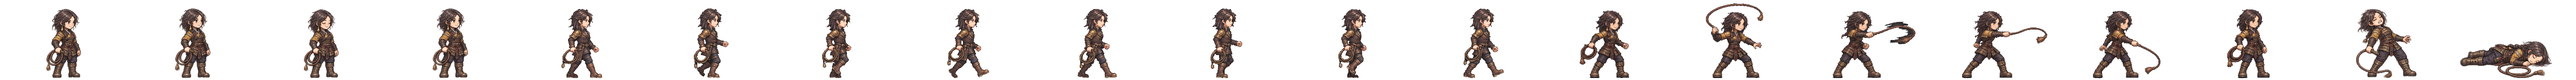
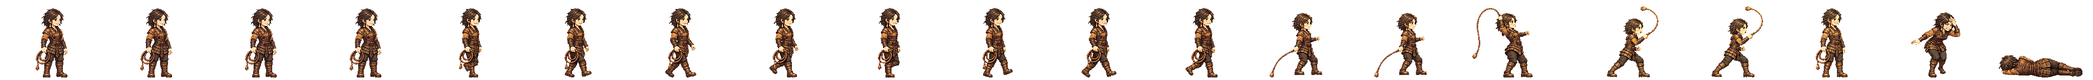
사벌 말갈기 새 채찍 띠를 게임에 넣음: 칸 38(본 20 + 쓰러짐 2 + 개성 4 + 공격 8 + 맞음 4) · 공격 칸 폭 288 · 뒷발 박힘 · 걷기는 앞 판(v1 · 교대가 약해 다시 받았으나 나아지지 않음)
Claude-Session: https://claude.ai/code/session_01TRiuN7s6aDfSnaHxrkctmU

diff --git a/src/realm/data/spritePx.ts b/src/realm/data/spritePx.ts
@@ -1,3 +1,3 @@
 /** public/realm/anim-px/manifest.json 의 사본 — tools/sprite-normalize.mjs 가 만든다 (손으로 고치지 말 것). 칸 [가로, 세로] · feet = 발 줄(칸 위에서 y) · bodyPx = 서 있는 몸 키 */
 import { expandManifest } from './sprite-manifest.ts'
-export const SPRITE_PX: Readonly<Record<string, { readonly cell: readonly [number, number]; readonly feet: number; readonly bodyPx: number; readonly kind: 'general' | 'soldier' | 'folk' | 'crowd'; readonly cells: number }>> = expandManifest<{ readonly cell: readonly [number, number]; readonly feet: number; readonly bodyPx: number; readonly kind: 'general' | 'soldier' | 'folk' | 'crowd'; readonly cells: number }>([{"cell":[166,128],"feet":126,"bodyPx":124,"kind":"soldier","cells":20},{"cell":[116,128],"feet":126,"bodyPx":117,"kind":"soldier","cells":20},{"cell":[127,128],"feet":126,"bodyPx":116,"kind":"soldier","cells":20},{"cell":[269,128],"feet":126,"bodyPx":126,"kind":"soldier","cells":20},{"cell":[503,128],"feet":126,"bodyPx":127,"kind":"soldier","cells":20},{"cell":[614,128],"feet":126,"bodyPx":126,"kind":"soldier","cells":20},{"cell":[200,160],"feet":156,"bodyPx":138,"kind":"general","cells":20},{"cell":[208,160],"feet":155,"bodyPx":138,"kind":"general","cells":20},{"cell":[208,160],"feet":154,"bodyPx":138,"kind":"general","cells":20},{"cell":[304,160],"feet":155,"bodyPx":135,"kind":"general","cells":20},{"cell":[184,160],"feet":156,"bodyPx":138,"kind":"general","cells":20},{"cell":[208,160],"feet":154,"bodyPx":136,"kind":"general","cells":20},{"cell":[232,160],"feet":156,"bodyPx":138,"kind":"general","cells":20},{"cell":[208,160],"feet":156,"bodyPx":138,"kind":"general","cells":20},{"cell":[168,160],"feet":156,"bodyPx":124,"kind":"general","cells":20},{"cell":[216,160],"feet":156,"bodyPx":130,"kind":"general","cells":20},{"cell":[200,160],"feet":156,"bodyPx":116,"kind":"general","cells":20},{"cell":[192,160],"feet":156,"bodyPx":138,"kind":"general","cells":20},{"cell":[208,160],"feet":154,"bodyPx":135,"kind":"general","cells":20},{"cell":[280,160],"feet":156,"bodyPx":138,"kind":"general","cells":20},{"cell":[232,160],"feet":156,"bodyPx":134,"kind":"general","cells":20},{"cell":[144,160],"feet":156,"bodyPx":70,"kind":"general","cells":20},{"cell":[208,160],"feet":156,"bodyPx":70,"kind":"general","cells":20},{"cell":[192,160],"feet":156,"bodyPx":70,"kind":"general","cells":20},{"cell":[240,160],"feet":155,"bodyPx":138,"kind":"general","cells":20},{"cell":[192,160],"feet":156,"bodyPx":128,"kind":"general","cells":20},{"cell":[208,160],"feet":154,"bodyPx":137,"kind":"general","cells":20},{"cell":[216,160],"feet":156,"bodyPx":138,"kind":"general","cells":20},{"cell":[208,160],"feet":156,"bodyPx":134,"kind":"general","cells":20},{"cell":[208,160],"feet":154,"bodyPx":130,"kind":"general","cells":20},{"cell":[248,160],"feet":156,"bodyPx":138,"kind":"general","cells":20},{"cell":[248,160],"feet":155,"bodyPx":138,"kind":"general","cells":20},{"cell":[192,160],"feet":155,"bodyPx":138,"kind":"general","cells":20},{"cell":[192,160],"feet":156,"bodyPx":124,"kind":"general","cells":20},{"cell":[208,160],"feet":154,"bodyPx":131,"kind":"general","cells":20},{"cell":[256,160],"feet":156,"bodyPx":138,"kind":"general","cells":20},{"cell":[240,160],"feet":156,"bodyPx":138,"kind":"general","cells":20},{"cell":[232,160],"feet":156,"bodyPx":73,"kind":"general","cells":20},{"cell":[224,160],"feet":156,"bodyPx":138,"kind":"general","cells":20},{"cell":[224,160],"feet":156,"bodyPx":128,"kind":"general","cells":20},{"cell":[176,160],"feet":156,"bodyPx":129,"kind":"general","cells":20},{"cell":[208,160],"feet":154,"bodyPx":139,"kind":"general","cells":20},{"cell":[232,160],"feet":155,"bodyPx":138,"kind":"general","cells":20},{"cell":[208,160],"feet":156,"bodyPx":132,"kind":"general","cells":20},{"cell":[184,160],"feet":156,"bodyPx":122,"kind":"general","cells":20},{"cell":[280,160],"feet":155,"bodyPx":133,"kind":"general","cells":20},{"cell":[176,160],"feet":156,"bodyPx":70,"kind":"general","cells":20},{"cell":[186,128],"feet":126,"bodyPx":127,"kind":"soldier","cells":20},{"cell":[298,128],"feet":126,"bodyPx":126,"kind":"soldier","cells":20},{"cell":[82,128],"feet":126,"bodyPx":114,"kind":"folk","cells":8},{"cell":[134,128],"feet":126,"bodyPx":119,"kind":"soldier","cells":20},{"cell":[380,128],"feet":126,"bodyPx":124,"kind":"soldier","cells":20},{"cell":[114,128],"feet":126,"bodyPx":115,"kind":"soldier","cells":20},{"cell":[122,128],"feet":126,"bodyPx":114,"kind":"soldier","cells":20},{"cell":[254,128],"feet":126,"bodyPx":128,"kind":"soldier","cells":20},{"cell":[438,128],"feet":126,"bodyPx":126,"kind":"soldier","cells":20},{"cell":[88,128],"feet":126,"bodyPx":113,"kind":"folk","cells":8},{"cell":[100,128],"feet":126,"bodyPx":115,"kind":"folk","cells":8},{"cell":[108,128],"feet":126,"bodyPx":115,"kind":"folk","cells":8},{"cell":[63,128],"feet":126,"bodyPx":113,"kind":"folk","cells":8},{"cell":[69,96],"feet":96,"bodyPx":96,"kind":"crowd","cells":1},{"cell":[54,96],"feet":96,"bodyPx":96,"kind":"crowd","cells":1},{"cell":[47,96],"feet":96,"bodyPx":96,"kind":"crowd","cells":1},{"cell":[49,96],"feet":96,"bodyPx":96,"kind":"crowd","cells":1},{"cell":[57,96],"feet":96,"bodyPx":96,"kind":"crowd","cells":1},{"cell":[55,96],"feet":96,"bodyPx":96,"kind":"crowd","cells":1},{"cell":[45,96],"feet":96,"bodyPx":96,"kind":"crowd","cells":1},{"cell":[53,96],"feet":96,"bodyPx":96,"kind":"crowd","cells":1},{"cell":[64,96],"feet":96,"bodyPx":96,"kind":"crowd","cells":1},{"cell":[264,160],"feet":156,"bodyPx":138,"kind":"general","cells":20},{"cell":[184,160],"feet":156,"bodyPx":124,"kind":"general","cells":20},{"cell":[208,160],"feet":154,"bodyPx":134,"kind":"general","cells":20},{"cell":[224,160],"feet":156,"bodyPx":133,"kind":"general","cells":20},{"cell":[184,160],"feet":156,"bodyPx":137,"kind":"general","cells":20},{"cell":[176,160],"feet":156,"bodyPx":130,"kind":"general","cells":20},{"cell":[216,160],"feet":156,"bodyPx":134,"kind":"general","cells":20},{"cell":[216,160],"feet":156,"bodyPx":132,"kind":"general","cells":20},{"cell":[288,160],"feet":156,"bodyPx":138,"kind":"general","cells":20},{"cell":[192,160],"feet":156,"bodyPx":118,"kind":"general","cells":20},{"cell":[208,160],"feet":154,"bodyPx":132,"kind":"general","cells":20},{"cell":[208,160],"feet":154,"bodyPx":128,"kind":"general","cells":20},{"cell":[240,160],"feet":156,"bodyPx":128,"kind":"general","cells":20},{"cell":[184,160],"feet":156,"bodyPx":132,"kind":"general","cells":20},{"cell":[208,160],"feet":156,"bodyPx":123,"kind":"general","cells":20},{"cell":[192,160],"feet":156,"bodyPx":135,"kind":"general","cells":20},{"cell":[176,160],"feet":156,"bodyPx":116,"kind":"general","cells":20},{"cell":[272,160],"feet":156,"bodyPx":138,"kind":"general","cells":20},{"cell":[176,160],"feet":156,"bodyPx":138,"kind":"general","cells":20},{"cell":[176,160],"feet":156,"bodyPx":122,"kind":"general","cells":20},{"cell":[232,160],"feet":156,"bodyPx":127,"kind":"general","cells":20},{"cell":[184,160],"feet":156,"bodyPx":134,"kind":"general","cells":20},{"cell":[168,160],"feet":156,"bodyPx":138,"kind":"general","cells":20},{"cell":[176,160],"feet":156,"bodyPx":137,"kind":"general","cells":20},{"cell":[184,160],"feet":156,"bodyPx":133,"kind":"general","cells":20}],[["axe",0],["bandit-chief",1],["bandit-club",2],["boat",3],["bow",4],["crossbow",5],["gen-adogan",6],["gen-alpyeong",7],["gen-ara",8],["gen-areum",8],["gen-aryeong",9],["gen-bakdal",8],["gen-baram",8],["gen-bdanbi",10],["gen-beom",11],["gen-beombal",8],["gen-beomi",8],["gen-bira",12],["gen-biryu",13],["gen-budeul",8],["gen-byeol",8],["gen-daemusin",14],["gen-daeso",15],["gen-dallae2",10],["gen-dalli",8],["gen-damul",16],["gen-danbi",8],["gen-dangung",17],["gen-darae",18],["gen-dokmudeom",8],["gen-duman",19],["gen-eomni",8],["gen-eureum",20],["gen-g-bow",21],["gen-g-spear",22],["gen-g-sword",23],["gen-gaennae",8],["gen-gamsil",24],["gen-gaon",18],["gen-geota",13],["gen-geumbawi",10],["gen-geumha",25],["gen-goeun",8],["gen-gom",8],["gen-gomok",13],["gen-gureum",8],["gen-guryema",17],["gen-gwaeyu",12],["gen-haebi",8],["gen-haedal",6],["gen-haesol",8],["gen-halla",26],["gen-heo",8],["gen-hneoul",10],["gen-hogong",27],["gen-hojin",13],["gen-horselord",28],["gen-hwalmi",29],["gen-hyeokgeose",17],["gen-hyeopbo",6],["gen-irang",8],["gen-jibaekho",30],["gen-jinha",31],["gen-jita",32],["gen-jumong",33],["gen-keundol",7],["gen-maehwa",34],["gen-maenun",17],["gen-malgalgi",35],["gen-mari",36],["gen-maro",30],["gen-maryeo",13],["gen-mdallae",8],["gen-mir",6],["gen-mount",37],["gen-mulbeom",26],["gen-mulsae",26],["gen-musoe",27],["gen-noeul",8],["gen-nuri",8],["gen-ocheongan",38],["gen-odi",8],["gen-odogan",6],["gen-ogan",17],["gen-oi",39],["gen-olddaeso",20],["gen-onjo",40],["gen-pidogan",13],["gen-sagong",41],["gen-sdallae",6],["gen-sincheongan",8],["gen-singwigan",27],["gen-sinneoul",8],["gen-sobeol",42],["gen-soebi",8],["gen-soebo",43],["gen-soenun",41],["gen-sogeumbi",26],["gen-songbi",8],["gen-songyang",44],["gen-sori",8],["gen-soseono",45],["gen-suro",17],["gen-tahae",6],["gen-tneoul",8],["gen-w-bow",21],["gen-w-spear",46],["gen-waechief",13],["gen-wan",27],["gen-yeodogan",13],["gen-yucheongan",8],["gen-yusugan",30],["horse",47],["marine",48],["migrant",49],["militia",50],["pike",51],["pirate-captain",52],["pirate-sword",53],["shield",54],["spear",55],["villager-builder",56],["villager-farmer",57],["villager-porter",58],["villager-woman",59],["crowd-b1",60],["crowd-b2",61],["crowd-b3",62],["crowd-b4",63],["crowd-b5",64],["crowd-b6",65],["crowd-f1",60],["crowd-f2",65],["crowd-f3",66],["crowd-f4",67],["crowd-f5",60],["crowd-f6",68],["gen-dalbit",13],["gen-base-g-07-drunk-warrior",17],["gen-base-g-40-anya-adan",13],["gen-base-w-13-young-archer",8],["gen-base-g-03-sea-trader",36],["gen-base-w-10-pirate-captain",41],["gen-base-w-64-miri-dallae",41],["gen-base-g-41-goja-bau",36],["gen-base-g-42-dokro-garam",69],["gen-base-g-09-farmer-conscript",27],["gen-base-w-02-goguryeo-lady",8],["gen-base-w-17-mahan-pearl-diver",8],["gen-base-g-17-saro-isageum",43],["gen-base-g-18-daegaya-king",70],["gen-base-g-35-dabeol-dalgu",13],["gen-base-g-19-sabeol-veteran",27],["gen-base-w-23-usisan-whale-queen",8],["gen-base-g-36-gammun-gamdol",38],["gen-base-g-20-samul-sea-lord",35],["gen-base-g-37-eumjeup-jeup",10],["gen-base-g-38-chopal-palmae",17],["gen-base-w-75-daegaya-soemoe",8],["gen-base-g-45-dabeol-deulgae",10],["gen-base-g-04-jinhan-giant",13],["gen-base-g-08-veteran",13],["gen-base-w-18-jinhan-salt-widow",8],["gen-base-w-12-court-dancer",71],["gen-base-w-83-gyeonji-beodeul",72],["gen-base-w-05-baekje-queen",18],["gen-base-w-21-baekje-court-dancer",10],["gen-base-g-01-master-smith",73],["gen-base-g-93-jomun-solgae",74],["gen-base-g-57-bihwa-neup",36],["gen-base-w-72-eumjeup-beol",8],["gen-base-w-102-garak-dana",41],["gen-base-g-68-baekje-onnuri",13],["gen-base-w-27-mokji-jinha",6],["gen-base-g-22-ungcheon-gomnae",6],["gen-base-g-23-sangdang-soedal",13],["gen-base-g-24-wansan-onsan",6],["gen-base-g-25-balla-keunmoe",27],["gen-base-g-61-heomcheuk-bawi",27],["gen-base-g-88-wander-soeul",38],["gen-base-w-14-feast-spy",8],["gen-base-g-12-silla-youth",75],["gen-base-w-08-mahan-warrior",8],["gen-base-g-62-beonye-hanul",36],["gen-base-g-63-heomcheuk-beogeum",13],["gen-base-g-84-wander-seoneul",13],["gen-base-w-50-siljik-mulga",27],["gen-base-g-46-uga-nureongso",27],["gen-base-w-80-usan-gangchi",41],["gen-base-g-47-guga-sanyanggae",27],["gen-base-w-76-gampyeong-baetsagong",8],["gen-base-g-05-mahan-chieftain",76],["gen-base-g-58-usan-uhae",13],["gen-base-g-27-maek-maekdol",13],["gen-base-w-53-hwanna-gabi",41],["gen-base-w-29-golpo-janmul",30],["gen-base-g-53-baekje-haeru",6],["gen-base-w-71-yeonna-neoul",8],["gen-base-w-79-yangmaek-solmae",8],["gen-base-w-34-chopal-deulme",8],["gen-base-g-44-maga-malgup",77],["gen-base-w-31-dabeol-dalbit",41],["gen-base-g-51-biryuna-mulgyeol",38],["gen-base-g-48-gwanna-musoe",13],["gen-base-g-32-uga-sodu",12],["gen-base-g-49-goguryeo-sona",78],["gen-base-g-30-gwanna-soemoe",38],["gen-base-g-52-tamna-oreum",10],["gen-base-g-29-yeonna-myeongsol",33],["gen-base-w-56-dongokjeo-sogeum",71],["gen-base-g-54-mokji-mahan",12],["gen-base-g-33-jeoga-metdol",17],["gen-base-w-36-baekje-maena",8],["gen-base-w-38-sangdang-bulmae",41],["gen-base-w-39-gosaburi-galmae",8],["gen-base-w-40-mujin-munui",79],["gen-base-w-41-hwanna-beodeul",80],["gen-base-w-43-uga-nuri",35],["gen-base-w-45-tamna-oreumbi",10],["gen-base-g-60-golbeol-golgae",10],["gen-base-g-61-apdok-ap",27],["gen-base-g-62-gammun-gamnamu",6],["gen-base-g-63-chopal-yeoul",30],["gen-base-g-64-michuhol-sogeumkkun",36],["gen-base-g-65-sangdang-soemangchi",38],["gen-base-g-66-geonma-malbalgup",81],["gen-base-g-67-gosaburi-buri",82],["gen-base-g-68-mujin-bitgoeul",10],["gen-base-g-69-goryong-yong",38],["gen-base-g-70-siljik-pado",36],["gen-base-w-81-byeokjin-byeolbit",8],["gen-base-w-46-geonma-maru",8],["gen-base-w-48-mujin-mudeung",8],["gen-base-g-26-gampyeong-gaetbeol",12],["gen-base-g-60-eupcha-hangyeol",83],["gen-base-g-15-shaman-man",27],["gen-base-g-85-wander-ure",30],["gen-base-g-43-hwanna-amnok",13],["gen-base-g-50-bullae-gwaha",84],["gen-base-g-55-saro-bakdal",13],["gen-base-g-56-haseulla-gwahama",6],["gen-base-w-06-buyeo-huntress",26],["gen-base-w-22-dongye-tiger-huntress",8],["gen-base-w-25-bihwa-priestess",8],["gen-base-w-24-apdok-queen",8],["gen-base-w-61-iseo-sinae",8],["gen-base-w-26-iseo-tomboy-general",8],["gen-base-g-59-yangmaek-maekson",85],["gen-aw1-haebi",38],["gen-aw1-soseono",86],["gen-aw1-gamsil",10],["gen-aw1-mir",87],["gen-aw1-dangung",6],["gen-aw1-ara",38],["gen-aw1-jumong",88],["gen-aw1-onjo",89],["gen-aw1-base-w-83-gyeonji-beodeul",17],["gen-aw1-heo",69],["gen-aw1-base-g-38-chopal-palmae",6],["gen-aw1-base-w-25-bihwa-priestess",90],["gen-aw1-sori",91],["gen-aw1-gomok",6],["gen-aw1-irang",17],["gen-aw1-budeul",91],["gen-aw1-gom",36],["gen-aw1-sdallae",6],["gen-aw1-base-w-13-young-archer",6],["gen-aw1-base-w-36-baekje-maena",92],["gen-aw1-base-g-09-farmer-conscript",69],["gen-aw1-base-w-02-goguryeo-lady",93],["gen-aw1-haedal",10],["gen-aw1-hogong",6],["gen-aw1-maehwa",87],["gen-aw1-base-w-06-buyeo-huntress",12],["gen-aw1-base-w-08-mahan-warrior",38],["gen-aw1-base-w-29-golpo-janmul",38],["gen-aw1-base-w-31-dabeol-dalbit",17],["gen-aw1-base-w-38-sangdang-bulmae",91],["gen-aw1-bira",27],["gen-aw1-base-w-53-hwanna-gabi",91],["gen-aw1-base-w-56-dongokjeo-sogeum",87],["gen-aw1-base-w-72-eumjeup-beol",17],["gen-aw1-bdanbi",91],["gen-aw1-beom",10],["gen-aw1-beombal",10],["gen-aw1-byeol",17],["gen-aw1-dalli",87],["gen-aw1-malgalgi",30],["gen-aw1-sincheongan",27]])
+export const SPRITE_PX: Readonly<Record<string, { readonly cell: readonly [number, number]; readonly feet: number; readonly bodyPx: number; readonly kind: 'general' | 'soldier' | 'folk' | 'crowd'; readonly cells: number }>> = expandManifest<{ readonly cell: readonly [number, number]; readonly feet: number; readonly bodyPx: number; readonly kind: 'general' | 'soldier' | 'folk' | 'crowd'; readonly cells: number }>([{"cell":[166,128],"feet":126,"bodyPx":124,"kind":"soldier","cells":20},{"cell":[116,128],"feet":126,"bodyPx":117,"kind":"soldier","cells":20},{"cell":[127,128],"feet":126,"bodyPx":116,"kind":"soldier","cells":20},{"cell":[269,128],"feet":126,"bodyPx":126,"kind":"soldier","cells":20},{"cell":[503,128],"feet":126,"bodyPx":127,"kind":"soldier","cells":20},{"cell":[614,128],"feet":126,"bodyPx":126,"kind":"soldier","cells":20},{"cell":[200,160],"feet":156,"bodyPx":138,"kind":"general","cells":20},{"cell":[208,160],"feet":155,"bodyPx":138,"kind":"general","cells":20},{"cell":[208,160],"feet":154,"bodyPx":138,"kind":"general","cells":20},{"cell":[304,160],"feet":155,"bodyPx":135,"kind":"general","cells":20},{"cell":[184,160],"feet":156,"bodyPx":138,"kind":"general","cells":20},{"cell":[208,160],"feet":154,"bodyPx":136,"kind":"general","cells":20},{"cell":[232,160],"feet":156,"bodyPx":138,"kind":"general","cells":20},{"cell":[208,160],"feet":156,"bodyPx":138,"kind":"general","cells":20},{"cell":[168,160],"feet":156,"bodyPx":124,"kind":"general","cells":20},{"cell":[216,160],"feet":156,"bodyPx":130,"kind":"general","cells":20},{"cell":[200,160],"feet":156,"bodyPx":116,"kind":"general","cells":20},{"cell":[192,160],"feet":156,"bodyPx":138,"kind":"general","cells":20},{"cell":[208,160],"feet":154,"bodyPx":135,"kind":"general","cells":20},{"cell":[280,160],"feet":156,"bodyPx":138,"kind":"general","cells":20},{"cell":[232,160],"feet":156,"bodyPx":134,"kind":"general","cells":20},{"cell":[144,160],"feet":156,"bodyPx":70,"kind":"general","cells":20},{"cell":[208,160],"feet":156,"bodyPx":70,"kind":"general","cells":20},{"cell":[192,160],"feet":156,"bodyPx":70,"kind":"general","cells":20},{"cell":[240,160],"feet":155,"bodyPx":138,"kind":"general","cells":20},{"cell":[192,160],"feet":156,"bodyPx":128,"kind":"general","cells":20},{"cell":[208,160],"feet":154,"bodyPx":137,"kind":"general","cells":20},{"cell":[216,160],"feet":156,"bodyPx":138,"kind":"general","cells":20},{"cell":[208,160],"feet":156,"bodyPx":134,"kind":"general","cells":20},{"cell":[208,160],"feet":154,"bodyPx":130,"kind":"general","cells":20},{"cell":[248,160],"feet":156,"bodyPx":138,"kind":"general","cells":20},{"cell":[248,160],"feet":155,"bodyPx":138,"kind":"general","cells":20},{"cell":[192,160],"feet":155,"bodyPx":138,"kind":"general","cells":20},{"cell":[192,160],"feet":156,"bodyPx":124,"kind":"general","cells":20},{"cell":[208,160],"feet":154,"bodyPx":131,"kind":"general","cells":20},{"cell":[240,160],"feet":156,"bodyPx":138,"kind":"general","cells":20},{"cell":[232,160],"feet":156,"bodyPx":73,"kind":"general","cells":20},{"cell":[224,160],"feet":156,"bodyPx":138,"kind":"general","cells":20},{"cell":[224,160],"feet":156,"bodyPx":128,"kind":"general","cells":20},{"cell":[176,160],"feet":156,"bodyPx":129,"kind":"general","cells":20},{"cell":[208,160],"feet":154,"bodyPx":139,"kind":"general","cells":20},{"cell":[232,160],"feet":155,"bodyPx":138,"kind":"general","cells":20},{"cell":[208,160],"feet":156,"bodyPx":132,"kind":"general","cells":20},{"cell":[184,160],"feet":156,"bodyPx":122,"kind":"general","cells":20},{"cell":[280,160],"feet":155,"bodyPx":133,"kind":"general","cells":20},{"cell":[176,160],"feet":156,"bodyPx":70,"kind":"general","cells":20},{"cell":[186,128],"feet":126,"bodyPx":127,"kind":"soldier","cells":20},{"cell":[298,128],"feet":126,"bodyPx":126,"kind":"soldier","cells":20},{"cell":[82,128],"feet":126,"bodyPx":114,"kind":"folk","cells":8},{"cell":[134,128],"feet":126,"bodyPx":119,"kind":"soldier","cells":20},{"cell":[380,128],"feet":126,"bodyPx":124,"kind":"soldier","cells":20},{"cell":[114,128],"feet":126,"bodyPx":115,"kind":"soldier","cells":20},{"cell":[122,128],"feet":126,"bodyPx":114,"kind":"soldier","cells":20},{"cell":[254,128],"feet":126,"bodyPx":128,"kind":"soldier","cells":20},{"cell":[438,128],"feet":126,"bodyPx":126,"kind":"soldier","cells":20},{"cell":[88,128],"feet":126,"bodyPx":113,"kind":"folk","cells":8},{"cell":[100,128],"feet":126,"bodyPx":115,"kind":"folk","cells":8},{"cell":[108,128],"feet":126,"bodyPx":115,"kind":"folk","cells":8},{"cell":[63,128],"feet":126,"bodyPx":113,"kind":"folk","cells":8},{"cell":[69,96],"feet":96,"bodyPx":96,"kind":"crowd","cells":1},{"cell":[54,96],"feet":96,"bodyPx":96,"kind":"crowd","cells":1},{"cell":[47,96],"feet":96,"bodyPx":96,"kind":"crowd","cells":1},{"cell":[49,96],"feet":96,"bodyPx":96,"kind":"crowd","cells":1},{"cell":[57,96],"feet":96,"bodyPx":96,"kind":"crowd","cells":1},{"cell":[55,96],"feet":96,"bodyPx":96,"kind":"crowd","cells":1},{"cell":[45,96],"feet":96,"bodyPx":96,"kind":"crowd","cells":1},{"cell":[53,96],"feet":96,"bodyPx":96,"kind":"crowd","cells":1},{"cell":[64,96],"feet":96,"bodyPx":96,"kind":"crowd","cells":1},{"cell":[264,160],"feet":156,"bodyPx":138,"kind":"general","cells":20},{"cell":[184,160],"feet":156,"bodyPx":124,"kind":"general","cells":20},{"cell":[256,160],"feet":156,"bodyPx":138,"kind":"general","cells":20},{"cell":[208,160],"feet":154,"bodyPx":134,"kind":"general","cells":20},{"cell":[224,160],"feet":156,"bodyPx":133,"kind":"general","cells":20},{"cell":[184,160],"feet":156,"bodyPx":137,"kind":"general","cells":20},{"cell":[176,160],"feet":156,"bodyPx":130,"kind":"general","cells":20},{"cell":[216,160],"feet":156,"bodyPx":134,"kind":"general","cells":20},{"cell":[216,160],"feet":156,"bodyPx":132,"kind":"general","cells":20},{"cell":[288,160],"feet":156,"bodyPx":138,"kind":"general","cells":20},{"cell":[192,160],"feet":156,"bodyPx":118,"kind":"general","cells":20},{"cell":[208,160],"feet":154,"bodyPx":132,"kind":"general","cells":20},{"cell":[208,160],"feet":154,"bodyPx":128,"kind":"general","cells":20},{"cell":[240,160],"feet":156,"bodyPx":128,"kind":"general","cells":20},{"cell":[184,160],"feet":156,"bodyPx":132,"kind":"general","cells":20},{"cell":[208,160],"feet":156,"bodyPx":123,"kind":"general","cells":20},{"cell":[192,160],"feet":156,"bodyPx":135,"kind":"general","cells":20},{"cell":[176,160],"feet":156,"bodyPx":116,"kind":"general","cells":20},{"cell":[272,160],"feet":156,"bodyPx":138,"kind":"general","cells":20},{"cell":[176,160],"feet":156,"bodyPx":138,"kind":"general","cells":20},{"cell":[176,160],"feet":156,"bodyPx":122,"kind":"general","cells":20},{"cell":[232,160],"feet":156,"bodyPx":127,"kind":"general","cells":20},{"cell":[184,160],"feet":156,"bodyPx":134,"kind":"general","cells":20},{"cell":[168,160],"feet":156,"bodyPx":138,"kind":"general","cells":20},{"cell":[176,160],"feet":156,"bodyPx":137,"kind":"general","cells":20},{"cell":[184,160],"feet":156,"bodyPx":133,"kind":"general","cells":20}],[["axe",0],["bandit-chief",1],["bandit-club",2],["boat",3],["bow",4],["crossbow",5],["gen-adogan",6],["gen-alpyeong",7],["gen-ara",8],["gen-areum",8],["gen-aryeong",9],["gen-bakdal",8],["gen-baram",8],["gen-bdanbi",10],["gen-beom",11],["gen-beombal",8],["gen-beomi",8],["gen-bira",12],["gen-biryu",13],["gen-budeul",8],["gen-byeol",8],["gen-daemusin",14],["gen-daeso",15],["gen-dallae2",10],["gen-dalli",8],["gen-damul",16],["gen-danbi",8],["gen-dangung",17],["gen-darae",18],["gen-dokmudeom",8],["gen-duman",19],["gen-eomni",8],["gen-eureum",20],["gen-g-bow",21],["gen-g-spear",22],["gen-g-sword",23],["gen-gaennae",8],["gen-gamsil",24],["gen-gaon",18],["gen-geota",13],["gen-geumbawi",10],["gen-geumha",25],["gen-goeun",8],["gen-gom",8],["gen-gomok",13],["gen-gureum",8],["gen-guryema",17],["gen-gwaeyu",12],["gen-haebi",8],["gen-haedal",6],["gen-haesol",8],["gen-halla",26],["gen-heo",8],["gen-hneoul",10],["gen-hogong",27],["gen-hojin",13],["gen-horselord",28],["gen-hwalmi",29],["gen-hyeokgeose",17],["gen-hyeopbo",6],["gen-irang",8],["gen-jibaekho",30],["gen-jinha",31],["gen-jita",32],["gen-jumong",33],["gen-keundol",7],["gen-maehwa",34],["gen-maenun",17],["gen-malgalgi",8],["gen-mari",35],["gen-maro",30],["gen-maryeo",13],["gen-mdallae",8],["gen-mir",6],["gen-mount",36],["gen-mulbeom",26],["gen-mulsae",26],["gen-musoe",27],["gen-noeul",8],["gen-nuri",8],["gen-ocheongan",37],["gen-odi",8],["gen-odogan",6],["gen-ogan",17],["gen-oi",38],["gen-olddaeso",20],["gen-onjo",39],["gen-pidogan",13],["gen-sagong",40],["gen-sdallae",6],["gen-sincheongan",8],["gen-singwigan",27],["gen-sinneoul",8],["gen-sobeol",41],["gen-soebi",8],["gen-soebo",42],["gen-soenun",40],["gen-sogeumbi",26],["gen-songbi",8],["gen-songyang",43],["gen-sori",8],["gen-soseono",44],["gen-suro",17],["gen-tahae",6],["gen-tneoul",8],["gen-w-bow",21],["gen-w-spear",45],["gen-waechief",13],["gen-wan",27],["gen-yeodogan",13],["gen-yucheongan",8],["gen-yusugan",30],["horse",46],["marine",47],["migrant",48],["militia",49],["pike",50],["pirate-captain",51],["pirate-sword",52],["shield",53],["spear",54],["villager-builder",55],["villager-farmer",56],["villager-porter",57],["villager-woman",58],["crowd-b1",59],["crowd-b2",60],["crowd-b3",61],["crowd-b4",62],["crowd-b5",63],["crowd-b6",64],["crowd-f1",59],["crowd-f2",64],["crowd-f3",65],["crowd-f4",66],["crowd-f5",59],["crowd-f6",67],["gen-dalbit",13],["gen-base-g-07-drunk-warrior",17],["gen-base-g-40-anya-adan",13],["gen-base-w-13-young-archer",8],["gen-base-g-03-sea-trader",35],["gen-base-w-10-pirate-captain",40],["gen-base-w-64-miri-dallae",40],["gen-base-g-41-goja-bau",35],["gen-base-g-42-dokro-garam",68],["gen-base-g-09-farmer-conscript",27],["gen-base-w-02-goguryeo-lady",8],["gen-base-w-17-mahan-pearl-diver",8],["gen-base-g-17-saro-isageum",42],["gen-base-g-18-daegaya-king",69],["gen-base-g-35-dabeol-dalgu",13],["gen-base-g-19-sabeol-veteran",27],["gen-base-w-23-usisan-whale-queen",8],["gen-base-g-36-gammun-gamdol",37],["gen-base-g-20-samul-sea-lord",70],["gen-base-g-37-eumjeup-jeup",10],["gen-base-g-38-chopal-palmae",17],["gen-base-w-75-daegaya-soemoe",8],["gen-base-g-45-dabeol-deulgae",10],["gen-base-g-04-jinhan-giant",13],["gen-base-g-08-veteran",13],["gen-base-w-18-jinhan-salt-widow",8],["gen-base-w-12-court-dancer",71],["gen-base-w-83-gyeonji-beodeul",72],["gen-base-w-05-baekje-queen",18],["gen-base-w-21-baekje-court-dancer",10],["gen-base-g-01-master-smith",73],["gen-base-g-93-jomun-solgae",74],["gen-base-g-57-bihwa-neup",35],["gen-base-w-72-eumjeup-beol",8],["gen-base-w-102-garak-dana",40],["gen-base-g-68-baekje-onnuri",13],["gen-base-w-27-mokji-jinha",6],["gen-base-g-22-ungcheon-gomnae",6],["gen-base-g-23-sangdang-soedal",13],["gen-base-g-24-wansan-onsan",6],["gen-base-g-25-balla-keunmoe",27],["gen-base-g-61-heomcheuk-bawi",27],["gen-base-g-88-wander-soeul",37],["gen-base-w-14-feast-spy",8],["gen-base-g-12-silla-youth",75],["gen-base-w-08-mahan-warrior",8],["gen-base-g-62-beonye-hanul",35],["gen-base-g-63-heomcheuk-beogeum",13],["gen-base-g-84-wander-seoneul",13],["gen-base-w-50-siljik-mulga",27],["gen-base-g-46-uga-nureongso",27],["gen-base-w-80-usan-gangchi",40],["gen-base-g-47-guga-sanyanggae",27],["gen-base-w-76-gampyeong-baetsagong",8],["gen-base-g-05-mahan-chieftain",76],["gen-base-g-58-usan-uhae",13],["gen-base-g-27-maek-maekdol",13],["gen-base-w-53-hwanna-gabi",40],["gen-base-w-29-golpo-janmul",30],["gen-base-g-53-baekje-haeru",6],["gen-base-w-71-yeonna-neoul",8],["gen-base-w-79-yangmaek-solmae",8],["gen-base-w-34-chopal-deulme",8],["gen-base-g-44-maga-malgup",77],["gen-base-w-31-dabeol-dalbit",40],["gen-base-g-51-biryuna-mulgyeol",37],["gen-base-g-48-gwanna-musoe",13],["gen-base-g-32-uga-sodu",12],["gen-base-g-49-goguryeo-sona",78],["gen-base-g-30-gwanna-soemoe",37],["gen-base-g-52-tamna-oreum",10],["gen-base-g-29-yeonna-myeongsol",33],["gen-base-w-56-dongokjeo-sogeum",71],["gen-base-g-54-mokji-mahan",12],["gen-base-g-33-jeoga-metdol",17],["gen-base-w-36-baekje-maena",8],["gen-base-w-38-sangdang-bulmae",40],["gen-base-w-39-gosaburi-galmae",8],["gen-base-w-40-mujin-munui",79],["gen-base-w-41-hwanna-beodeul",80],["gen-base-w-43-uga-nuri",70],["gen-base-w-45-tamna-oreumbi",10],["gen-base-g-60-golbeol-golgae",10],["gen-base-g-61-apdok-ap",27],["gen-base-g-62-gammun-gamnamu",6],["gen-base-g-63-chopal-yeoul",30],["gen-base-g-64-michuhol-sogeumkkun",35],["gen-base-g-65-sangdang-soemangchi",37],["gen-base-g-66-geonma-malbalgup",81],["gen-base-g-67-gosaburi-buri",82],["gen-base-g-68-mujin-bitgoeul",10],["gen-base-g-69-goryong-yong",37],["gen-base-g-70-siljik-pado",35],["gen-base-w-81-byeokjin-byeolbit",8],["gen-base-w-46-geonma-maru",8],["gen-base-w-48-mujin-mudeung",8],["gen-base-g-26-gampyeong-gaetbeol",12],["gen-base-g-60-eupcha-hangyeol",83],["gen-base-g-15-shaman-man",27],["gen-base-g-85-wander-ure",30],["gen-base-g-43-hwanna-amnok",13],["gen-base-g-50-bullae-gwaha",84],["gen-base-g-55-saro-bakdal",13],["gen-base-g-56-haseulla-gwahama",6],["gen-base-w-06-buyeo-huntress",26],["gen-base-w-22-dongye-tiger-huntress",8],["gen-base-w-25-bihwa-priestess",8],["gen-base-w-24-apdok-queen",8],["gen-base-w-61-iseo-sinae",8],["gen-base-w-26-iseo-tomboy-general",8],["gen-base-g-59-yangmaek-maekson",85],["gen-aw1-haebi",37],["gen-aw1-soseono",86],["gen-aw1-gamsil",10],["gen-aw1-mir",87],["gen-aw1-dangung",6],["gen-aw1-ara",37],["gen-aw1-jumong",88],["gen-aw1-onjo",89],["gen-aw1-base-w-83-gyeonji-beodeul",17],["gen-aw1-heo",68],["gen-aw1-base-g-38-chopal-palmae",6],["gen-aw1-base-w-25-bihwa-priestess",90],["gen-aw1-sori",91],["gen-aw1-gomok",6],["gen-aw1-irang",17],["gen-aw1-budeul",91],["gen-aw1-gom",35],["gen-aw1-sdallae",6],["gen-aw1-base-w-13-young-archer",6],["gen-aw1-base-w-36-baekje-maena",92],["gen-aw1-base-g-09-farmer-conscript",68],["gen-aw1-base-w-02-goguryeo-lady",93],["gen-aw1-haedal",10],["gen-aw1-hogong",6],["gen-aw1-maehwa",87],["gen-aw1-base-w-06-buyeo-huntress",12],["gen-aw1-base-w-08-mahan-warrior",37],["gen-aw1-base-w-29-golpo-janmul",37],["gen-aw1-base-w-31-dabeol-dalbit",17],["gen-aw1-base-w-38-sangdang-bulmae",91],["gen-aw1-bira",27],["gen-aw1-base-w-53-hwanna-gabi",91],["gen-aw1-base-w-56-dongokjeo-sogeum",87],["gen-aw1-base-w-72-eumjeup-beol",17],["gen-aw1-bdanbi",91],["gen-aw1-beom",10],["gen-aw1-beombal",10],["gen-aw1-byeol",17],["gen-aw1-dalli",87],["gen-aw1-malgalgi",30],["gen-aw1-sincheongan",27]])

diff --git a/src/duel/view.ts b/src/duel/view.ts
@@ -100,7 +100,7 @@ const crowdFront = [1, 2, 3, 4, 5, 6].map((i) => img(`realm/duel/crowd/b${i}.png
 const crowdReady = (set: HTMLImageElement[]): boolean => set.every((im) => im.complete && im.naturalWidth > 0)
 const pxMode = cfg.px !== false && params.get('px') !== '0'
 /** 겨루기 전용 옛 띠(duel/sprites) 대신 열전과 같은 도트 띠(anim-px)를 쓰는 장수 — 두 판에서 같은 모습 · 서기 계획·쓰러지는 칸도 같다 (11-23 범 · 매화 · 달빛 · 11-24 해비 · 아룸) */
-const PX_DUEL: ReadonlySet<string> = new Set(['beom', 'maehwa', 'base-w-31-dabeol-dalbit', 'haebi', 'areum', 'base-w-13-young-archer', 'base-w-10-pirate-captain', 'base-w-17-mahan-pearl-diver', 'base-w-06-buyeo-huntress', 'base-w-64-miri-dallae', 'ara', 'base-w-22-dongye-tiger-huntress', 'noeul', 'sagong', 'sinneoul', 'heo', 'base-w-08-mahan-warrior', 'base-w-23-usisan-whale-queen', 'base-w-26-iseo-tomboy-general', 'base-w-72-eumjeup-beol', 'tneoul', 'odi', 'base-w-76-gampyeong-baetsagong', 'base-w-34-chopal-deulme', 'base-w-102-garak-dana', 'base-w-36-baekje-maena', 'base-w-56-dongokjeo-sogeum', 'budeul', 'base-w-53-hwanna-gabi', 'base-w-18-jinhan-salt-widow', 'beombal', 'irang', 'sogeumbi', 'baram', 'byeol', 'base-w-71-yeonna-neoul', 'base-w-39-gosaburi-galmae', 'base-w-41-hwanna-beodeul', 'base-w-79-yangmaek-solmae', 'base-w-46-geonma-maru', 'base-w-48-mujin-mudeung', 'base-w-80-usan-gangchi', 'base-w-81-byeokjin-byeolbit', 'beomi', 'danbi', 'dalli', 'gureum', 'haesol', 'soenun', 'eomni', 'mulbeom', 'mulsae', 'bakdal', 'darae', 'sori', 'base-w-12-court-dancer', 'hwalmi', 'gaennae', 'dokmudeom', 'base-w-14-feast-spy', 'base-w-25-bihwa-priestess', 'sincheongan', 'base-w-40-mujin-munui', 'halla', 'yucheongan', 'base-w-02-goguryeo-lady', 'gaon', 'base-w-24-apdok-queen', 'base-w-61-iseo-sinae', 'goeun', 'base-w-05-baekje-queen', 'mdallae', 'nuri', 'base-w-75-daegaya-soemoe', 'soebi', 'base-w-38-sangdang-bulmae', 'gom', 'songbi'])
+const PX_DUEL: ReadonlySet<string> = new Set(['beom', 'maehwa', 'base-w-31-dabeol-dalbit', 'haebi', 'areum', 'base-w-13-young-archer', 'base-w-10-pirate-captain', 'base-w-17-mahan-pearl-diver', 'base-w-06-buyeo-huntress', 'base-w-64-miri-dallae', 'ara', 'base-w-22-dongye-tiger-huntress', 'noeul', 'sagong', 'sinneoul', 'heo', 'base-w-08-mahan-warrior', 'base-w-23-usisan-whale-queen', 'base-w-26-iseo-tomboy-general', 'base-w-72-eumjeup-beol', 'tneoul', 'odi', 'base-w-76-gampyeong-baetsagong', 'base-w-34-chopal-deulme', 'base-w-102-garak-dana', 'base-w-36-baekje-maena', 'base-w-56-dongokjeo-sogeum', 'budeul', 'base-w-53-hwanna-gabi', 'base-w-18-jinhan-salt-widow', 'beombal', 'irang', 'sogeumbi', 'baram', 'byeol', 'base-w-71-yeonna-neoul', 'base-w-39-gosaburi-galmae', 'base-w-41-hwanna-beodeul', 'base-w-79-yangmaek-solmae', 'base-w-46-geonma-maru', 'base-w-48-mujin-mudeung', 'base-w-80-usan-gangchi', 'base-w-81-byeokjin-byeolbit', 'beomi', 'danbi', 'dalli', 'gureum', 'haesol', 'soenun', 'eomni', 'mulbeom', 'mulsae', 'bakdal', 'darae', 'sori', 'base-w-12-court-dancer', 'hwalmi', 'gaennae', 'dokmudeom', 'base-w-14-feast-spy', 'base-w-25-bihwa-priestess', 'sincheongan', 'base-w-40-mujin-munui', 'halla', 'yucheongan', 'base-w-02-goguryeo-lady', 'gaon', 'base-w-24-apdok-queen', 'base-w-61-iseo-sinae', 'goeun', 'base-w-05-baekje-queen', 'mdallae', 'nuri', 'base-w-75-daegaya-soemoe', 'soebi', 'base-w-38-sangdang-bulmae', 'gom', 'songbi', 'malgalgi'])
 /** 띠 그림 — 기본은 anim-px(도트 규격) 먼저, 없으면 옛 띠로 (img 의 onerror 가 갈아 끼운다) */
 const strip = (s: string): HTMLImageElement => pxMode
   ? DUEL_ATLASES[s] !== undefined && !PX_DUEL.has(s) ? img(`realm/duel/sprites/gen-${s}.png`, `realm/anim-px/gen-${s}.png`)

diff --git a/src/tune/params.ts b/src/tune/params.ts
@@ -1538,6 +1538,7 @@ export const HAEBI_IDLE = {
     'base-w-38-sangdang-bulmae': { cells: 38, base: [0, 1], hold: 2.4, fall: [18, 20, 21, 19], quirk: [22, 23, 24, 25], quirkTimes: [.3, .32, .4, .28], attack: { cells: [26, 27, 28, 29, 30, 31, 32, 33], times: [.09, .08, .11, .05, .15, .07, .08, .12], hit: 4 }, hurt: [34, 35], rise: [36, 37], xGeom: { h: 224, root: 92, foot: 216 } },
     gom: { cells: 38, base: [0, 1], hold: 2.4, fall: [18, 20, 21, 19], quirk: [22, 23, 24, 25], quirkTimes: [.3, .32, .4, .28], attack: { cells: [26, 27, 28, 29, 30, 31, 32, 33], times: [.09, .08, .11, .05, .15, .07, .08, .12], hit: 4 }, hurt: [34, 35], rise: [36, 37], xGeom: { h: 224, root: 92, foot: 216 } },
     songbi: { cells: 30, base: [0, 1], hold: 2.4, fall: [18, 20, 21, 19], quirk: [22, 23, 24, 25], quirkTimes: [.28, .3, .42, .25], hurt: [26, 27], rise: [28, 29] },
+    malgalgi: { cells: 38, base: [0, 1], hold: 2.4, fall: [18, 20, 21, 19], quirk: [22, 23, 24, 25], quirkTimes: [.3, .32, .4, .28], attack: { cells: [26, 27, 28, 29, 30, 31, 32, 33], times: [.09, .08, .22, .05, .15, .07, .08, .12], hit: 4 }, hurt: [34, 35], rise: [36, 37], xGeom: { h: 224, root: 92, foot: 216 } },
   },
 } as const
 export const HAEBI_ANIM = {
